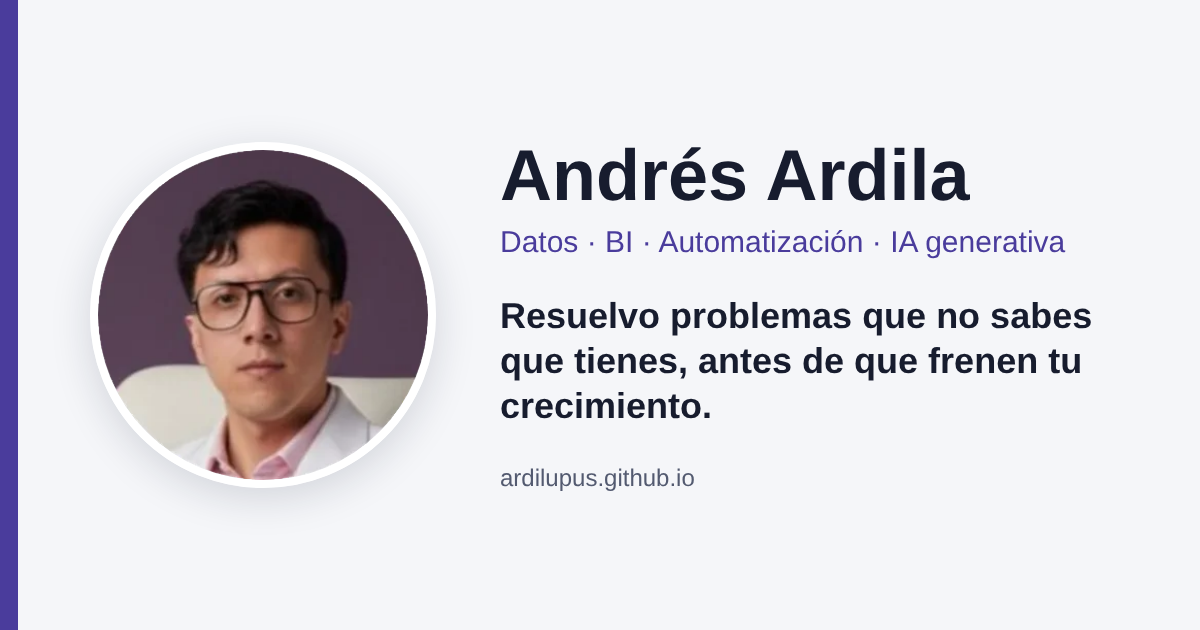
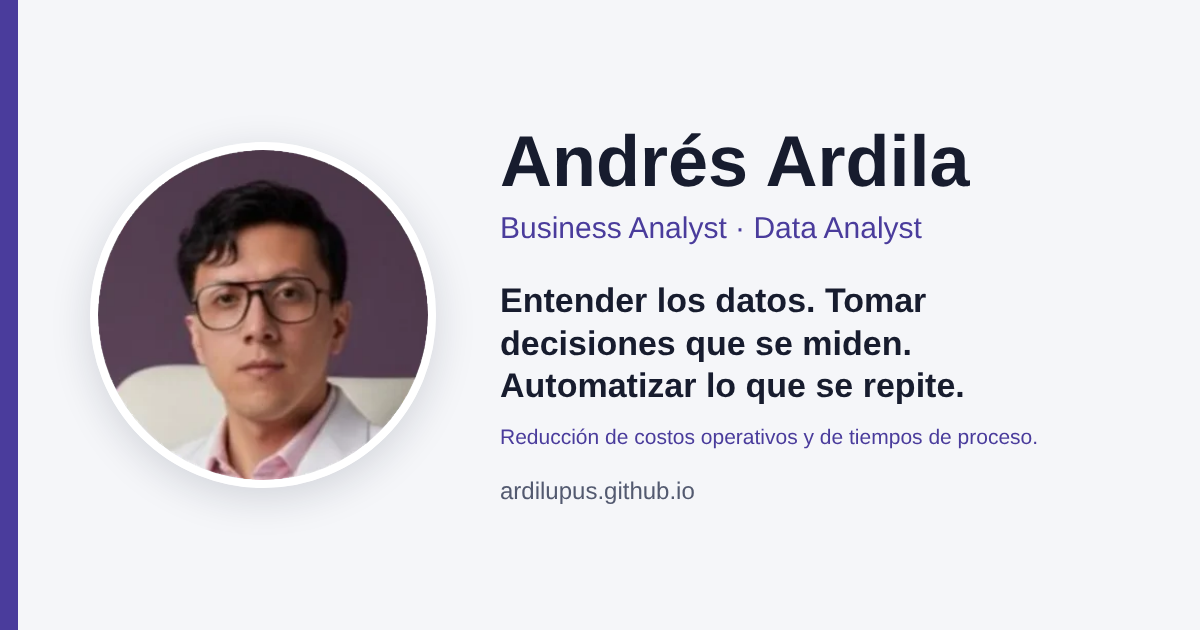
Nueva frase principal, cargos, cifras y tarjeta al compartir
Claude-Session: https://claude.ai/code/session_01CJaVk1kSUyDUzSbqSZuxNn

Changed region(s): [[0.4008, 0.4524, 0.925, 0.8143], [0.4008, 0.2111, 0.8942, 0.4222]]

diff --git a/index.html b/index.html
@@ -5,8 +5,8 @@
 <meta name="viewport" content="width=device-width, initial-scale=1, viewport-fit=cover">
 <meta property="og:type" content="website">
 <meta property="og:url" content="https://ardilupus.github.io/">
-<meta property="og:title" content="Andrés Ardila · Datos, BI, automatización e IA">
-<meta property="og:description" content="Resuelvo problemas que no sabes que tienes, antes de que frenen tu crecimiento.">
+<meta property="og:title" content="Andrés Ardila · Business Analyst · Data Analyst">
+<meta property="og:description" content="Entender los datos. Tomar decisiones que se miden. Automatizar lo que se repite. Reducción de costos operativos y de tiempos de proceso.">
 <meta property="og:image" content="https://ardilupus.github.io/og.png">
 <meta property="og:image:width" content="1200">
 <meta property="og:image:height" content="630">
@@ -14,7 +14,7 @@
 <meta name="twitter:card" content="summary_large_image">
 <title>Andrés Ardila</title>
 <meta name="claude:viewport-fit-sides" content="cover">
-<meta name="description" content="Andrés Ardila: analista de datos, BI, automatización e IA generativa en Bogotá. Resuelvo problemas que no sabes que tienes.">
+<meta name="description" content="Andrés Ardila: analista de datos, BI, automatización e IA generativa en Bogotá. Entender los datos, tomar decisiones que se miden y automatizar lo que se repite.">
 <link rel="preconnect" href="https://fonts.googleapis.com">
 <link rel="stylesheet" href="https://fonts.googleapis.com/css2?family=Schibsted+Grotesk:wght@500;700;800&family=Public+Sans:wght@400;500;600&family=JetBrains+Mono:wght@400;500&display=swap">
 <style>
@@ -57,6 +57,7 @@ a:focus-visible,button:focus-visible,input:focus-visible,select:focus-visible,su
 
 .hero{display:grid;grid-template-columns:auto 1fr;gap:36px;align-items:center;padding-block:40px 28px}
 .hero img{width:148px;height:148px;border-radius:50%;border:3px solid var(--accent);background:var(--accent-soft)}
+.hero .sub{font:600 1.15rem var(--body);color:var(--accent);margin-top:10px}
 .hero .role{font:500 1.05rem var(--body);color:var(--muted);margin-top:12px}
 .hero .lead{max-width:40em;margin-top:18px;font-size:1.12rem}
 .links{display:flex;gap:10px;flex-wrap:wrap;margin-top:22px}
@@ -240,9 +241,10 @@ footer{padding-block:28px;font-size:.85rem;color:var(--muted);border-top:1px sol
[1 lines of base64/hex data omitted]
   <div>
     <p class="lbl">Datos · BI · Automatización · IA generativa</p>
-    <h1 style="margin-top:10px">Detecto el problema antes de que cueste.</h1>
-    <p class="role">Andrés Mauricio Ardila Fajardo · Business Analyst y analista de datos · Bogotá</p>
-    <p class="lead">Ingeniero y MSc. en Visual Analytics y Big Data. Construyo pipelines, tableros y sistemas de IA que encuentran anomalías a tiempo: en un cultivo, en una tesorería o en miles de comentarios de clientes.</p>
+    <h1 style="margin-top:10px">Entender los datos. Tomar decisiones que se miden. Automatizar lo que se repite.</h1>
+    <p class="sub">Reducción de costos operativos y de tiempos de proceso.</p>
+    <p class="role">Andrés Mauricio Ardila Fajardo · Business Analyst · Data Analyst · Bogotá</p>
+    <p class="lead">Ingeniero y MSc. en Big Data and Visual Analytics. Construyo pipelines, ETLs, dashboards y sistemas de IA, y encuentro anomalías a tiempo: agricultura, tesorería, aeronáutica, análisis de sentimiento, extracción de reglas bancarias a nivel mundial, marketing orgánico, entre otros.</p>
     <div class="links">
       <a class="btn pri" href="#casos">Ver casos</a>
       <a class="btn" href="https://ardilupus.github.io/cv/Andres_Ardila_CV_ES.pdf" target="_blank" rel="noopener">Hoja de vida (ES)</a>
@@ -256,8 +258,9 @@ footer{padding-block:28px;font-size:.85rem;color:var(--muted);border-top:1px sol
 
 <div class="stats" aria-label="Cifras de mi trabajo">
   <span class="stat"><b>45</b>intentos de fraude detectados a tiempo</span>
-  <span class="stat"><b>1,2M</b>bancos en una app de Power Apps</span>
-  <span class="stat"><b>95%</b>menos tiempo operativo en tesorería</span>
+  <span class="stat"><b>1,2M</b>bancos en un ETL hacia una app</span>
+  <span class="stat"><b>95%</b>menos tiempo operativo en carga de información</span>
+  <span class="stat"><b>60%</b>menos tiempo en creación de reportería</span>
   <span class="stat"><b>200+</b>casos diarios validados</span>
   <span class="stat"><b>20.000+</b>comentarios analizados</span>
   <span class="stat"><b>7.600+</b>ofertas filtradas por mi agente</span>
@@ -346,7 +349,7 @@ footer{padding-block:28px;font-size:.85rem;color:var(--muted);border-top:1px sol
   <article class="case">
     <div class="txt">
       <p class="lbl">Tesorería · Delta Air Lines (BSSC)</p>
-      <h3>1,2 millones de bancos en una app de Power Apps</h3>
+      <h3>1,2 millones de bancos en una app</h3>
       <p>Los bancos vivían en SAP y el equipo los buscaba en archivos de Excel con macros, donde un dígito mal escrito dañaba un pago. Diseñé y lideré el reemplazo: Python descarga los bancos de SAP, Power Automate los carga y una app de Power Apps guía la búsqueda.</p>
       <ul>
         <li>Power Apps no carga más de 5.000 registros a la vez: Power Automate los sube por lotes con paginación y validaciones, y parte en bloques para no superar el límite de 100.000 que generaba rechazos.</li>
@@ -643,6 +646,7 @@ footer{padding-block:28px;font-size:.85rem;color:var(--muted);border-top:1px sol
       <ul>
         <li>Análisis de datos e inteligencia de negocios para Novo Nordisk, DKT, Rimax, Rayovac, entre otras marcas.</li>
         <li>Migración de dashboards a Snowflake (capas bronce, silver y gold), construidos como código agéntico.</li>
+        <li>Reportes que se generan automáticamente desde Snowflake para Novo Nordisk: 60% menos tiempo en creación de reportería; mi parte manual queda en los insights.</li>
         <li>Pipelines en Python desde imágenes y desde Adobe Analytics hacia Google Sheets, Excel y Snowflake.</li>
         <li>Proyección de influencers para Novo Nordisk y proyección anual de Rayovac cruzando Fanpage Karma y Windsor AI.</li>
         <li>Gobernanza de datos y modelo relacional en estrella para el embudo de médicos de Novo Nordisk.</li>
@@ -653,7 +657,7 @@ footer{padding-block:28px;font-size:.85rem;color:var(--muted);border-top:1px sol
       <h3>Analista de Datos</h3><p class="org">Bogotá Shared Service Center, apoyando a Delta Air Lines</p>
       <ul>
         <li>Motor de validación multinivel en Python para Customer Care, Baggage y Refunds: más de 200 casos diarios y más de 70% menos tiempo de validación.</li>
-        <li>App de Power Apps con 1,2 millones de bancos cargados por lotes con Power Automate.</li>
+        <li>App con 1,2 millones de bancos cargados por lotes con Power Automate.</li>
         <li>Automatización de estructuras SAP (FB60) y flujos ETL críticos: hasta 95% menos tiempo operativo; 45 intentos de fraude detectados a tiempo.</li>
         <li>Análisis de sentimiento de más de 20.000 comentarios de catering con un ensamble de 5 modelos.</li>
         <li>Fotos con IA para cerca de 200 personas del Service Center: elección del modelo (Nano Banana), prompt predefinido y diseño del backend para controlar el consumo de tokens.</li>
@@ -1065,7 +1069,7 @@ const axisStyle=g=>{g.selectAll('text').attr('fill','var(--muted)');g.selectAll(
 (function(){
   const now=new Date(2026,10,1);
   const J=[
-    {id:'j-asylum',t:'Business Analyst – BI',o:'Asylum marketing',a:new Date(2026,6,1),b:now,k:'Empleo',d:['BI para Novo Nordisk, DKT, Rimax, Rayovac, entre otras','Migración de dashboards a Snowflake','Gobernanza de datos y proyecciones']},
+    {id:'j-asylum',t:'Business Analyst – BI',o:'Asylum marketing',a:new Date(2026,6,1),b:now,k:'Empleo',d:['BI para Novo Nordisk, DKT, Rimax, Rayovac, entre otras','Migración de dashboards a Snowflake','60% menos tiempo en reportería','Gobernanza de datos y proyecciones']},
     {id:'j-delta',t:'Analista de Datos',o:'BSSC · Delta Air Lines',a:new Date(2025,3,1),b:new Date(2026,2,31),k:'Empleo',d:['Validación multinivel: 200+ casos diarios','App de 1,2 millones de bancos','45 intentos de fraude detectados a tiempo','Fotos con IA para 200 personas']},
     {id:'j-agente',t:'Agente de búsqueda de empleo',o:'Proyecto propio',a:new Date(2025,2,1),b:now,k:'Proyecto',d:['5 fuentes, puntaje y alertas por Telegram','7.600+ ofertas filtradas']},
     {id:'j-scraper',t:'Extractor de comentarios',o:'Proyecto propio',a:new Date(2026,0,1),b:now,k:'Proyecto',d:['Playwright, JSON y análisis agéntico']},
